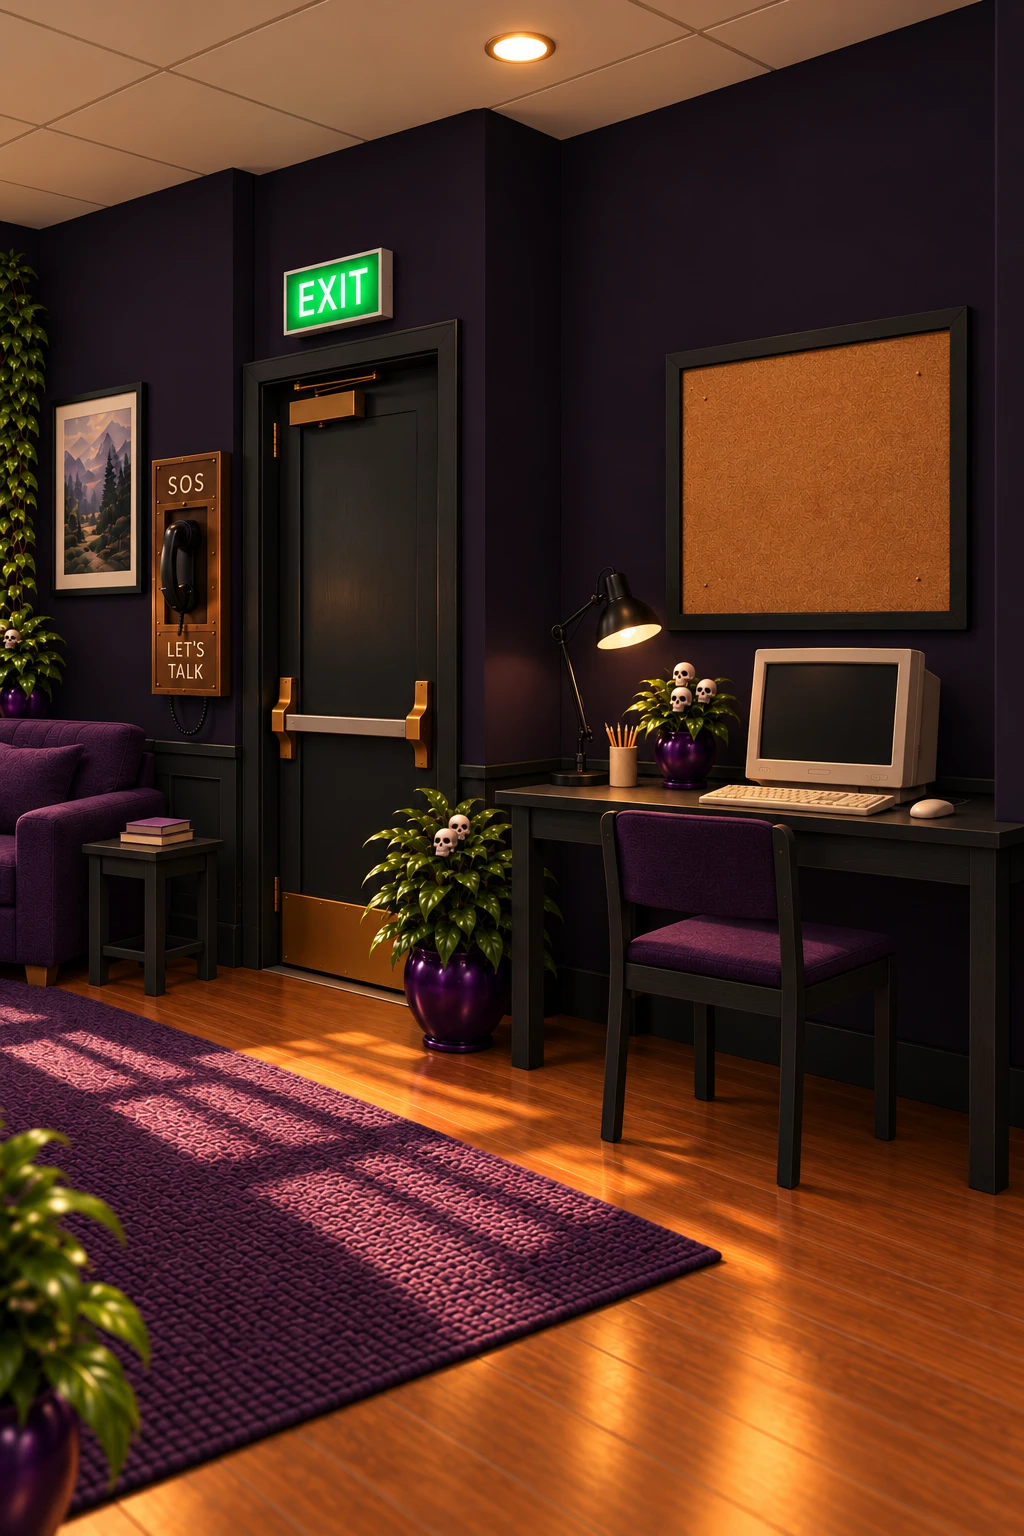
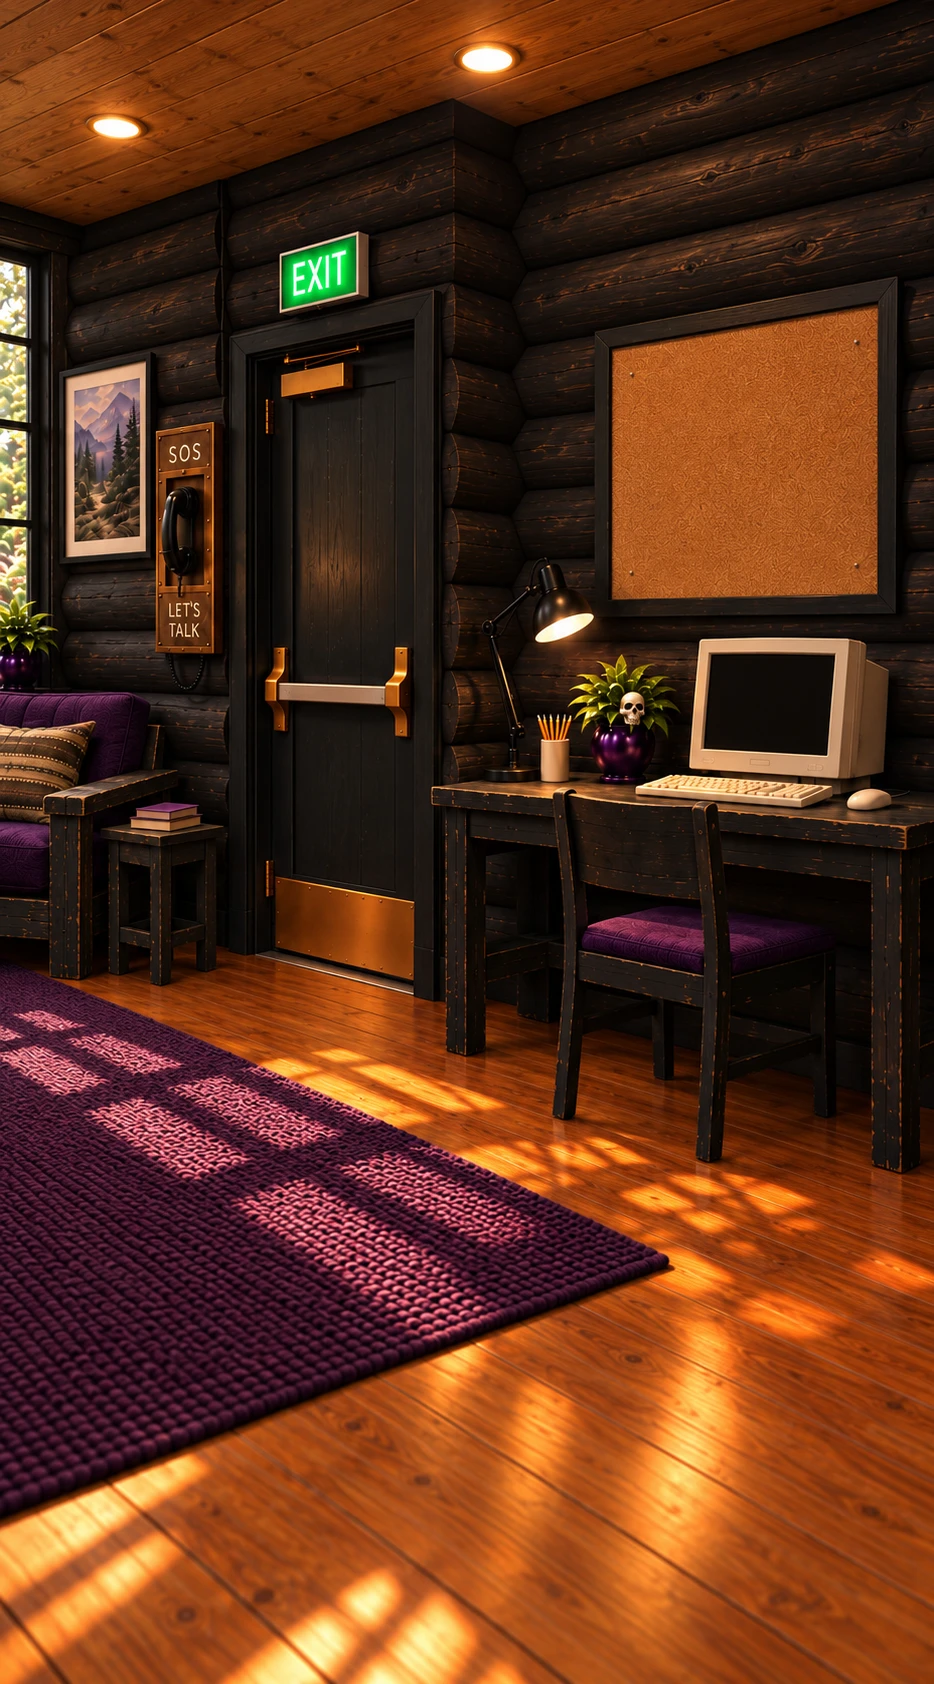
art: cabin restyle batch 4 — Support (front/right/left); interior restyle complete
Support front/left 851x1847, right 934x1684. All 16 interior rooms now in the
cabin-in-the-woods style.

Claude-Session: https://claude.ai/code/session_01KKhQMghLUspva6Yzs31jQ3

diff --git a/src/data/hubScene.ts b/src/data/hubScene.ts
@@ -375,8 +375,8 @@ export const HUB_NODES: Record<string, HubNode> = {
     id: "support",
     title: "Support",
     image: require("../../assets/scenes/support_front.png"),
-    imgW: 1024,
-    imgH: 1536,
+    imgW: 851,
+    imgH: 1847,
     fit: "screen",
     left: "support_left",
     right: "support_right",
@@ -393,8 +393,8 @@ export const HUB_NODES: Record<string, HubNode> = {
     id: "support_left",
     title: "Support",
     image: require("../../assets/scenes/support_left.png"),
-    imgW: 1024,
-    imgH: 1536,
+    imgW: 851,
+    imgH: 1847,
     fit: "screen",
     right: "support",
     back: "front",
@@ -413,8 +413,8 @@ export const HUB_NODES: Record<string, HubNode> = {
     id: "support_right",
     title: "Support",
     image: require("../../assets/scenes/support_right.png"),
-    imgW: 1024,
-    imgH: 1536,
+    imgW: 934,
+    imgH: 1684,
     fit: "screen",
     left: "support",
     back: "front",
